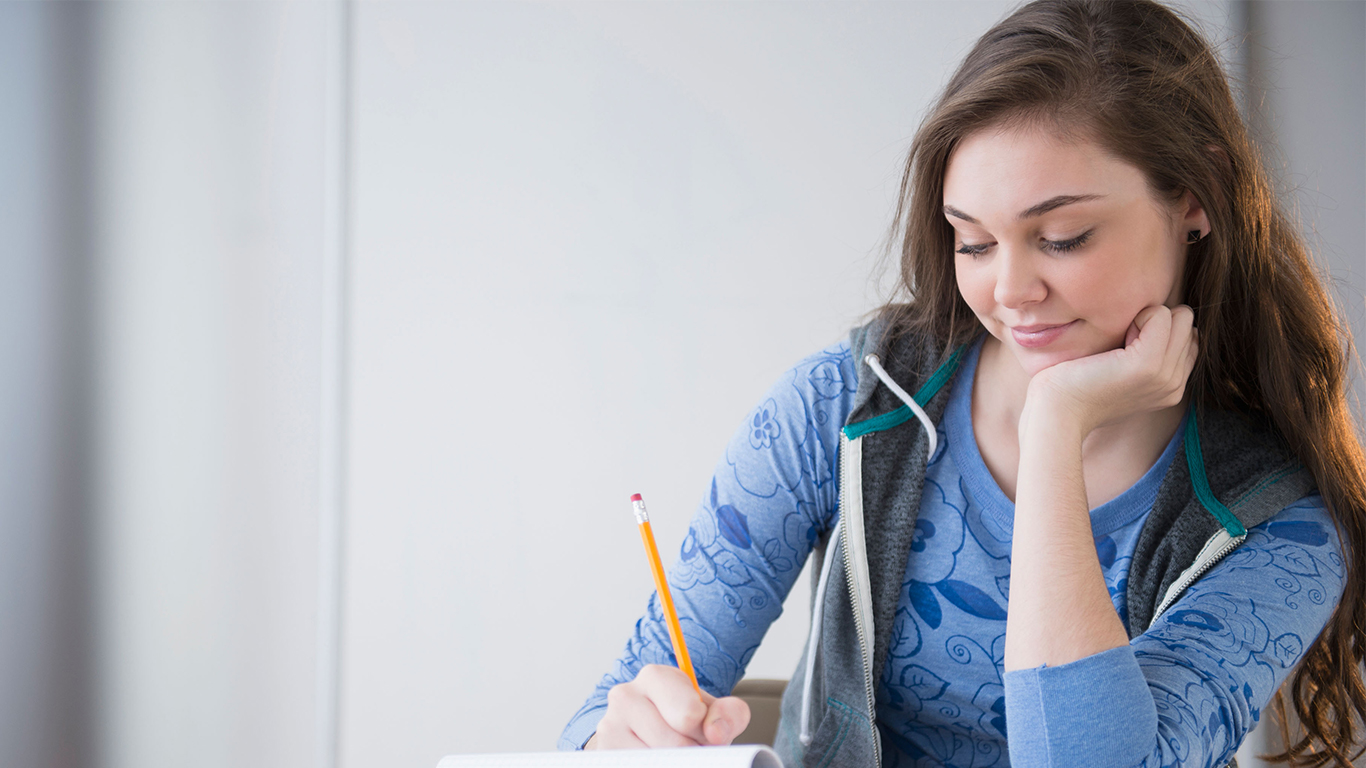
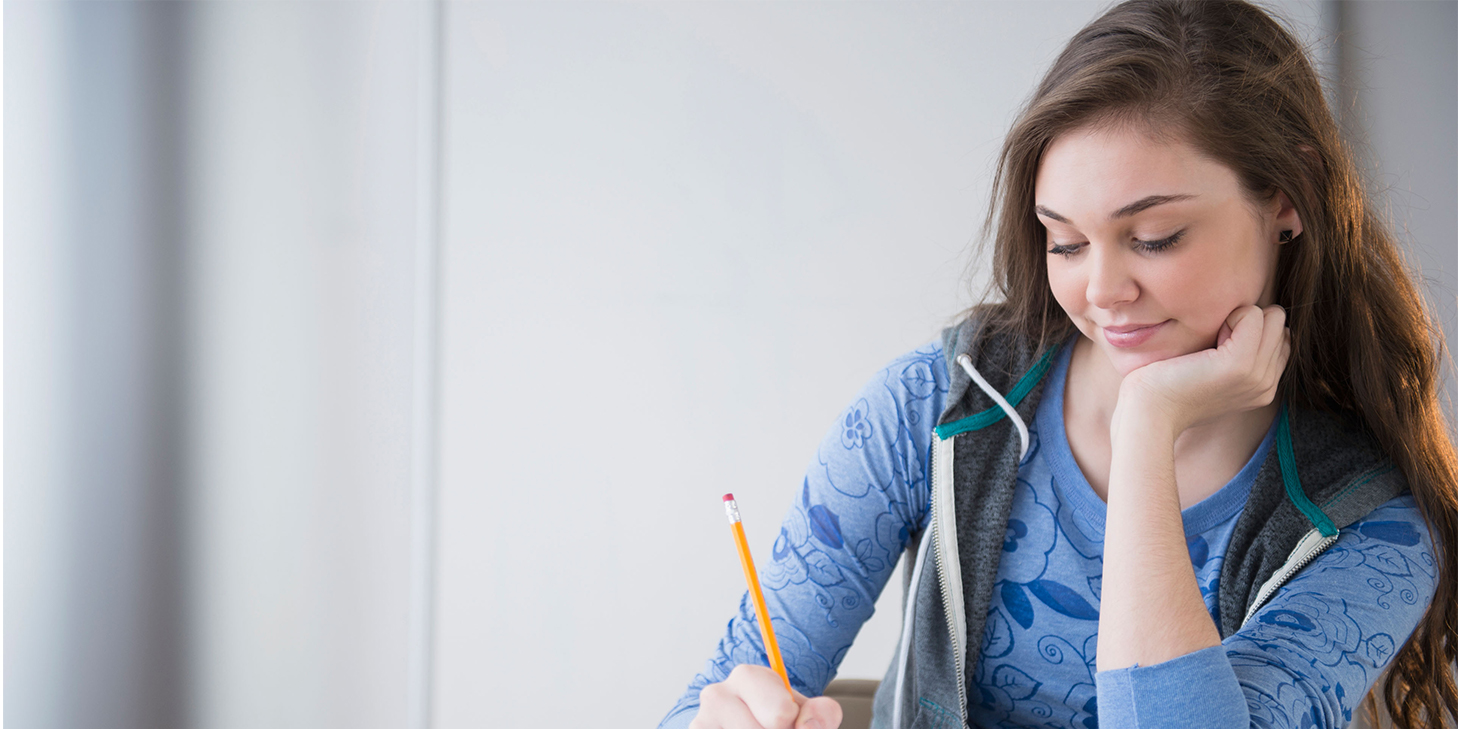
admission responsive (scroll problem)

diff --git a/style.css b/style.css
@@ -61,12 +61,17 @@ body {
 .apply {
 
      background-image: url(images/admission_last.jpg);
-    background-position: bottom;
+   background-position:center;
+
     background-repeat: no-repeat;
-    background-attachment: fixed;
-    background-size: cover;
+    background-attachment:fixed;
+    background-size:contain;
      width: 100%;
-    height: 500px;
+    max-width: 100%;
+    overflow:hidden;
+    height: 200px;
+    position:relative;
+    margin:0
 }
 
 .img-style {
@@ -171,9 +176,11 @@ button a {
   font-size: 20px;
   padding: 10px 20px 10px 20px;
   text-decoration: none;
+
     position: sticky;
-    margin: 15em 0 0 15em;
-}
+    top: 3em;
+    left:2em;
+    }
 
 .btn:hover {
   background: #0e16b3;
@@ -224,6 +231,10 @@ video {
     font-size: 10px;
 }
 
+.titleApp{position:absolute;
+top:.5em;
+    left:1.2em
+}
 header {
     position: fixed;
     background-color:#FFF;
@@ -817,7 +828,29 @@ margin-right:7vw;}
 
 }
 
+/*admission*/
 
+    .apply {
+
+     background-image: url(images/admission_last.jpg);
+   background-position:center;
+
+    background-repeat: no-repeat;
+    background-attachment: fixed;
+    background-size:contain;
+     width: 100%;
+    max-width: 100%;
+    overflow:hidden;
+    height: 400px;
+    position:relative;
+    margin:0
+}
+    .btn {top:8em;
+    left:9em;}
+
+    .titleApp {top:3em;
+    left:4.5em;
+    font-size: 1.6em}
 
 
     /*FOOTER*/

diff --git a/admission.html b/admission.html
@@ -75,7 +75,10 @@
         </div>
     </section>
 
-    <section class="apply"><button class="btn"><a href="http://www.kea.dk/en/en/study-at-kea/new-applicant/how-to-apply-ap-ba-degrees/
+    <section class="apply">
+
+       <h1 class="titleApp">APPLY DIGITALLY</h1>
+       <button class="btn"><a href="http://www.kea.dk/en/en/study-at-kea/new-applicant/how-to-apply-ap-ba-degrees/
 ">APPLY NOW</a></button></section>
 
 
